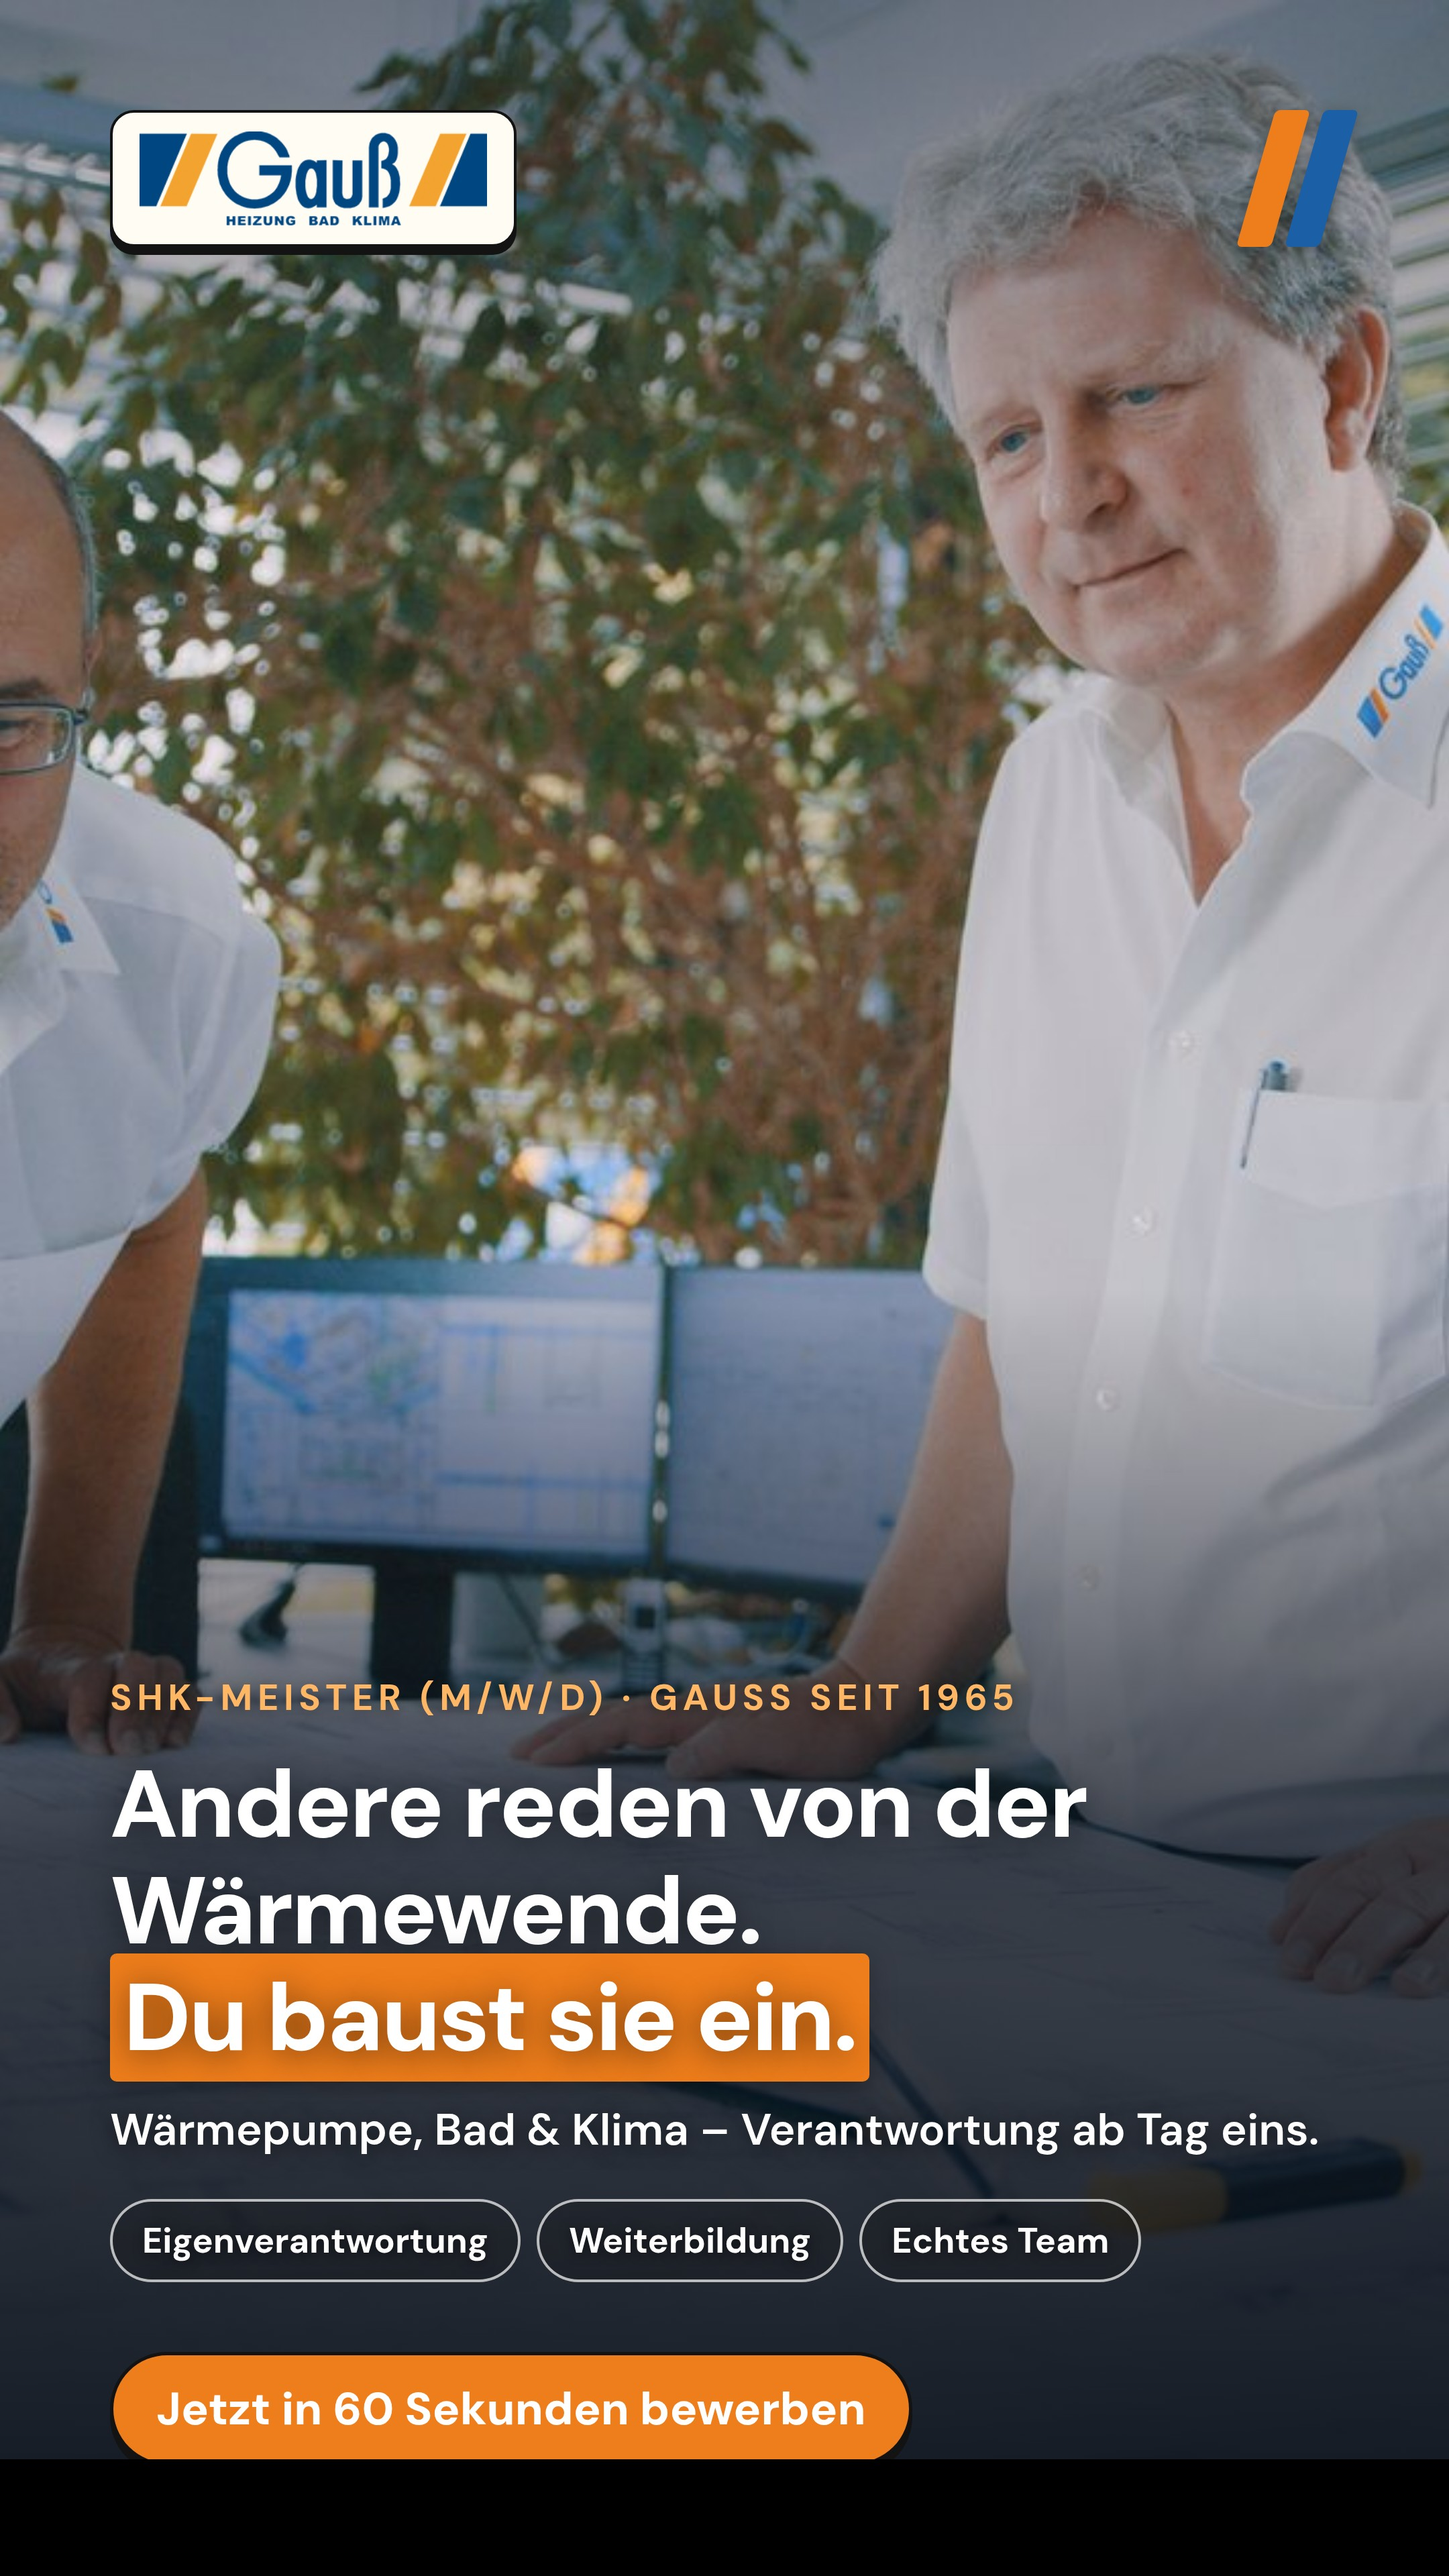
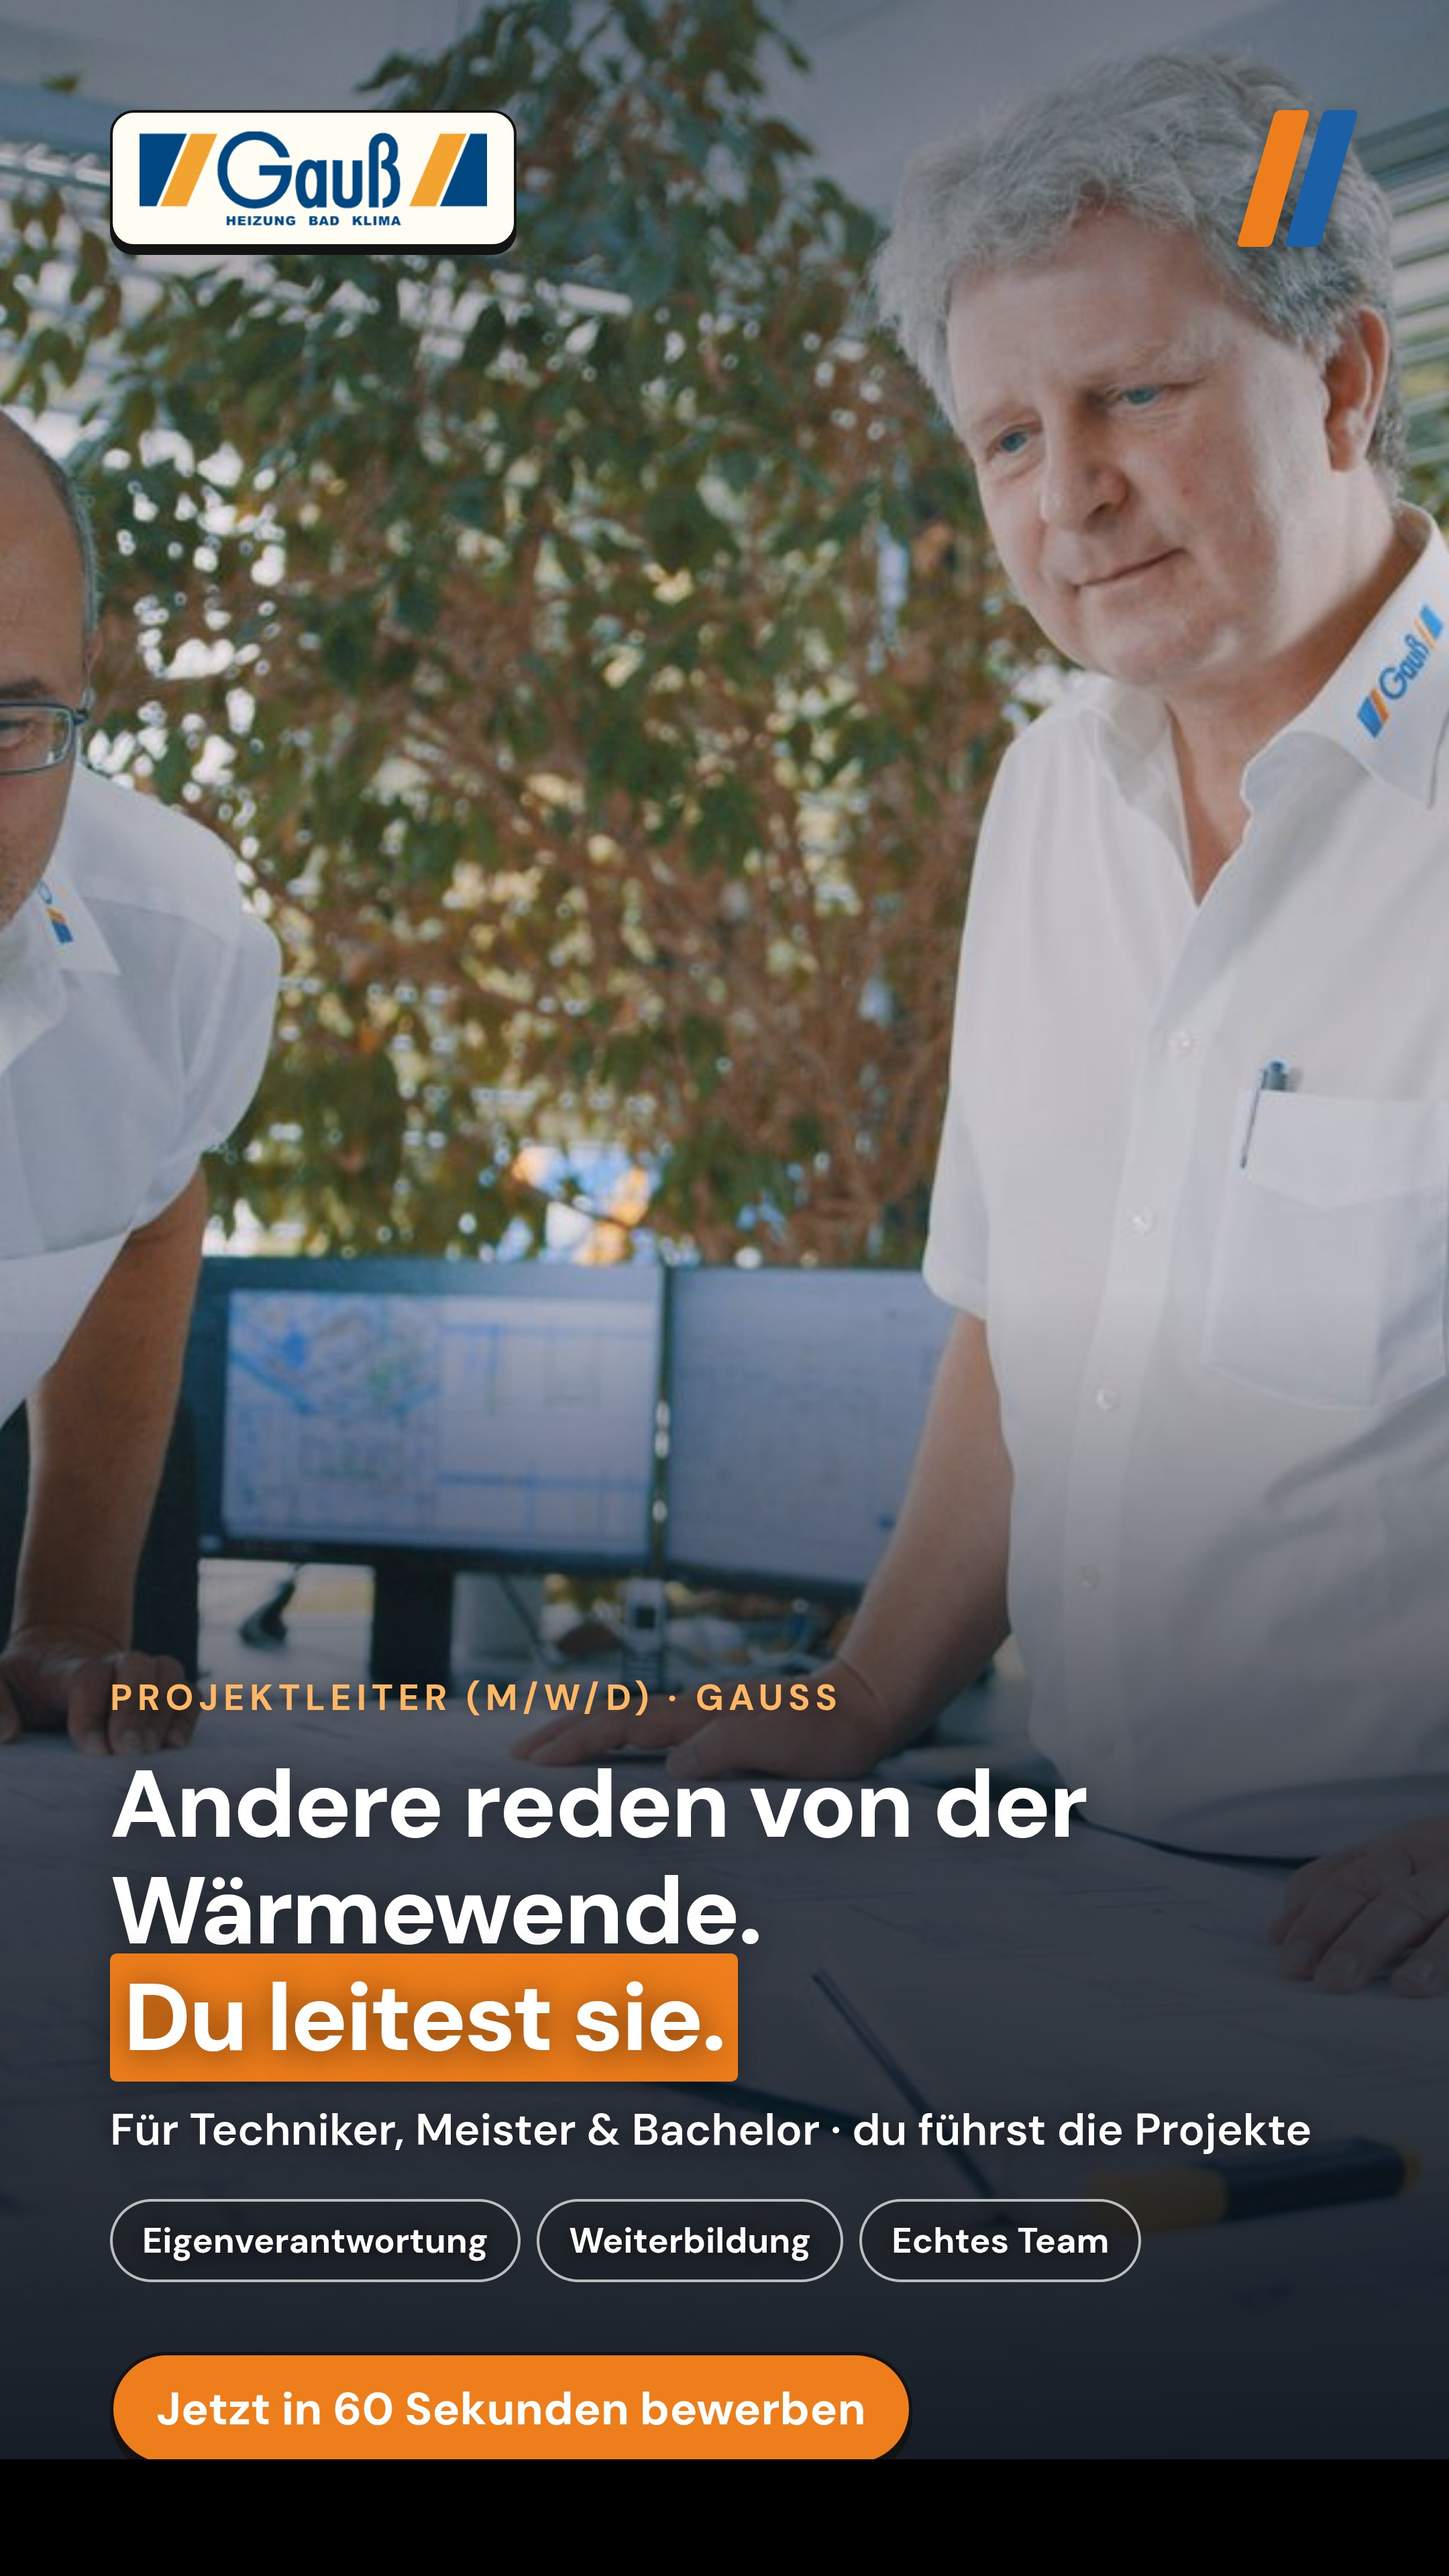
Reposition creatives to Projektleiter (Techniker/Meister/Bachelor); drop 'Werkzeug' angle per client feedback
Claude-Session: https://claude.ai/code/session_01CdVYdczDmkMnotWucW3gGt

diff --git a/creatives/README.md b/creatives/README.md
@@ -1,19 +1,18 @@
-# Ad-Creatives · SHK-Meister (m/w/d) · Gauß GmbH
+# Ad-Creatives · Projektleiter (m/w/d) · Gauß GmbH
 
-Drei Konzepte, jeweils als **4:5 (2160×2700)** und **Story 9:16 (2160×3840)**.
-Marke: Gauß-Blau/Orange, Original-Logo, DM Sans. Echte Fotos. Kein „Wir suchen",
-keine URL im Bild (die Funnel-URL kommt in das Link-/Button-Feld der Anzeige).
+Zielgruppe: **Techniker, Meister & Bachelor als Projektleiter** (Büro/Projektführung,
+nicht handwerklich-produktiv). Je Konzept als **4:5 (2160×2700)** und **Story 9:16 (2160×3840)**.
+Marke: Gauß-Blau/Orange, Original-Logo, DM Sans. Echte Fotos. Keine URL im Bild.
 
 | Datei | Konzept | Headline | Foto |
 |-------|---------|----------|------|
-| `gauss_shk_A-firmenwagen_*` | Firmenwagen / Identifikation | „Dein Werkzeug. Dein Fahrzeug. **Dein Revier.**" | Firmensitz + Fahrzeuge |
-| `gauss_shk_B-feierabend_*`  | Work-Life / Benefit | „Feierabend ist bei uns **kein Zufall.**" | Bauhelm auf Plänen |
-| `gauss_shk_C-waermewende_*` | Sinn / Mission | „Andere reden von der Wärmewende. **Du baust sie ein.**" | Team am Bauplan |
+| `gauss_shk_A-projektleiter_*` | Verantwortung / Führung | „Dein Projekt. Dein Team. **Dein Ergebnis.**" | Firmensitz |
+| `gauss_shk_B-feierabend_*`   | Work-Life | „Feierabend ist bei uns **kein Zufall.**" | Bauhelm auf Plänen |
+| `gauss_shk_C-waermewende_*`  | Sinn / Mission | „Andere reden von der Wärmewende. **Du leitest sie.**" | Team am Bauplan |
 
-`_4x5` = Feed (Instagram/Facebook), `_9x16` = Story/Reels.
-**Ziel-URL für den Anzeigen-Button:** https://saviold.github.io/gau--gmbh/
+`_4x5` = Feed, `_9x16` = Story/Reels. **Ziel-URL für den Anzeigen-Button:** https://saviold.github.io/gau--gmbh/
 
-## Passende Caption-Vorschläge (Ad-Text)
-- **A:** Familienbetrieb seit 1965 sucht einen SHK-Meister (m/w/d) im Nordschwarzwald. Eigenes Fahrzeug, Gauß-Rente, unbefristet. Bewirb dich in 60 Sekunden – ohne Anschreiben.
-- **B:** Bereitschaftsdienst nur alle 5–8 Wochen, Lebensarbeitszeitmodell, 30 Tage Urlaub. Bei Gauß bleibt Feierabend Feierabend. SHK-Meister (m/w/d) gesucht.
-- **C:** Wärmepumpe, Bad & Klima – bei Gauß übernimmst du ab Tag eins Verantwortung. SHK-Meister (m/w/d), Familienbetrieb seit 1965.
+## Caption-Vorschläge
+- **A:** Familienbetrieb seit 1965 sucht einen Projektleiter (m/w/d) – für Techniker, Meister oder Bachelor. Verantwortung ab Tag 1, Firmenwagen, unbefristet. Bewirb dich in 60 Sekunden.
+- **B:** Planbare Projekte, faire Work-Life-Balance, Gauß-Rente. Projektleiter (m/w/d) im Nordschwarzwald gesucht – Techniker, Meister, Bachelor willkommen.
+- **C:** Wärmepumpe, Bad & Klima – bei Gauß führst du die Projekte. Projektleiter (m/w/d), Familienbetrieb seit 1965.
